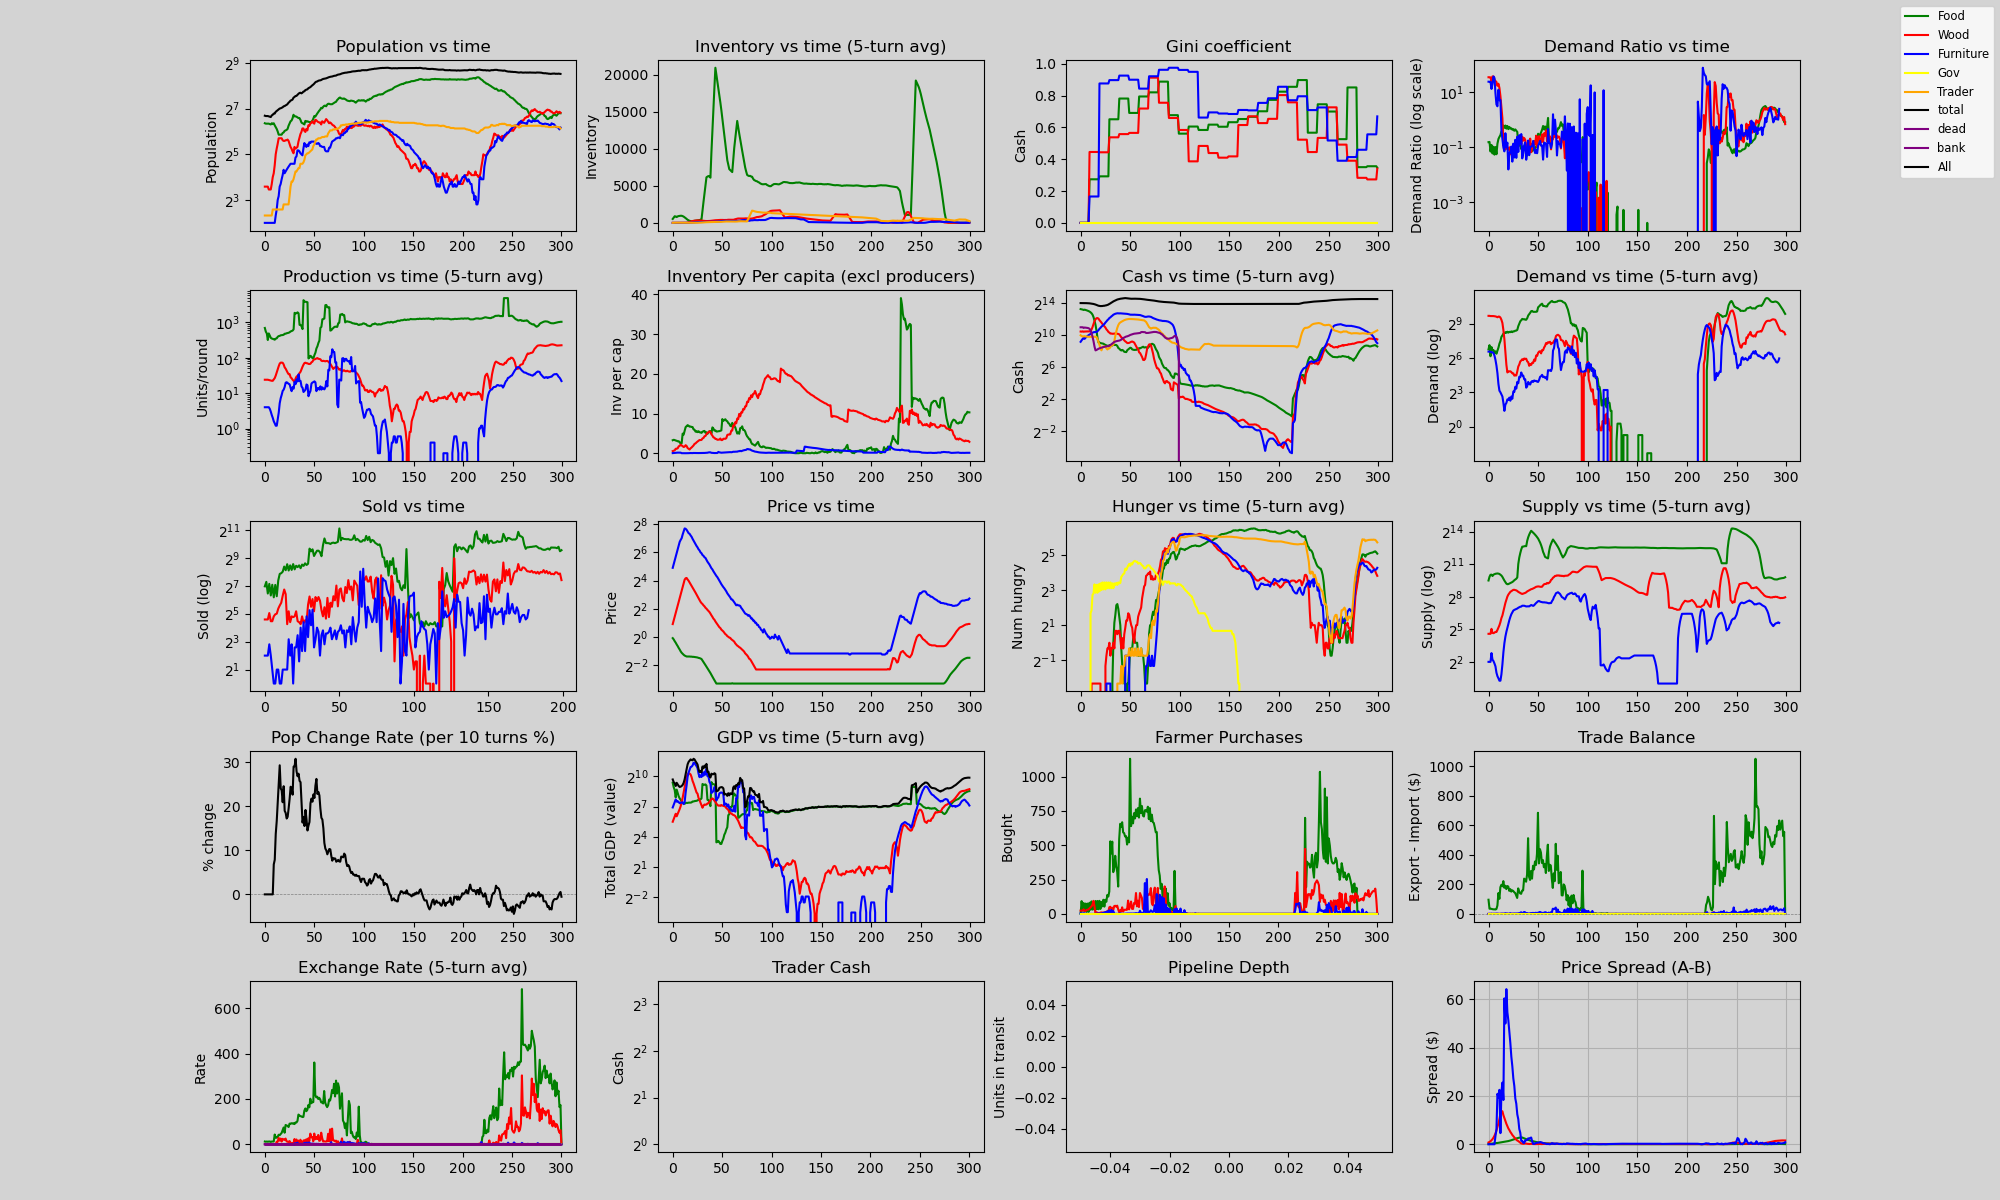
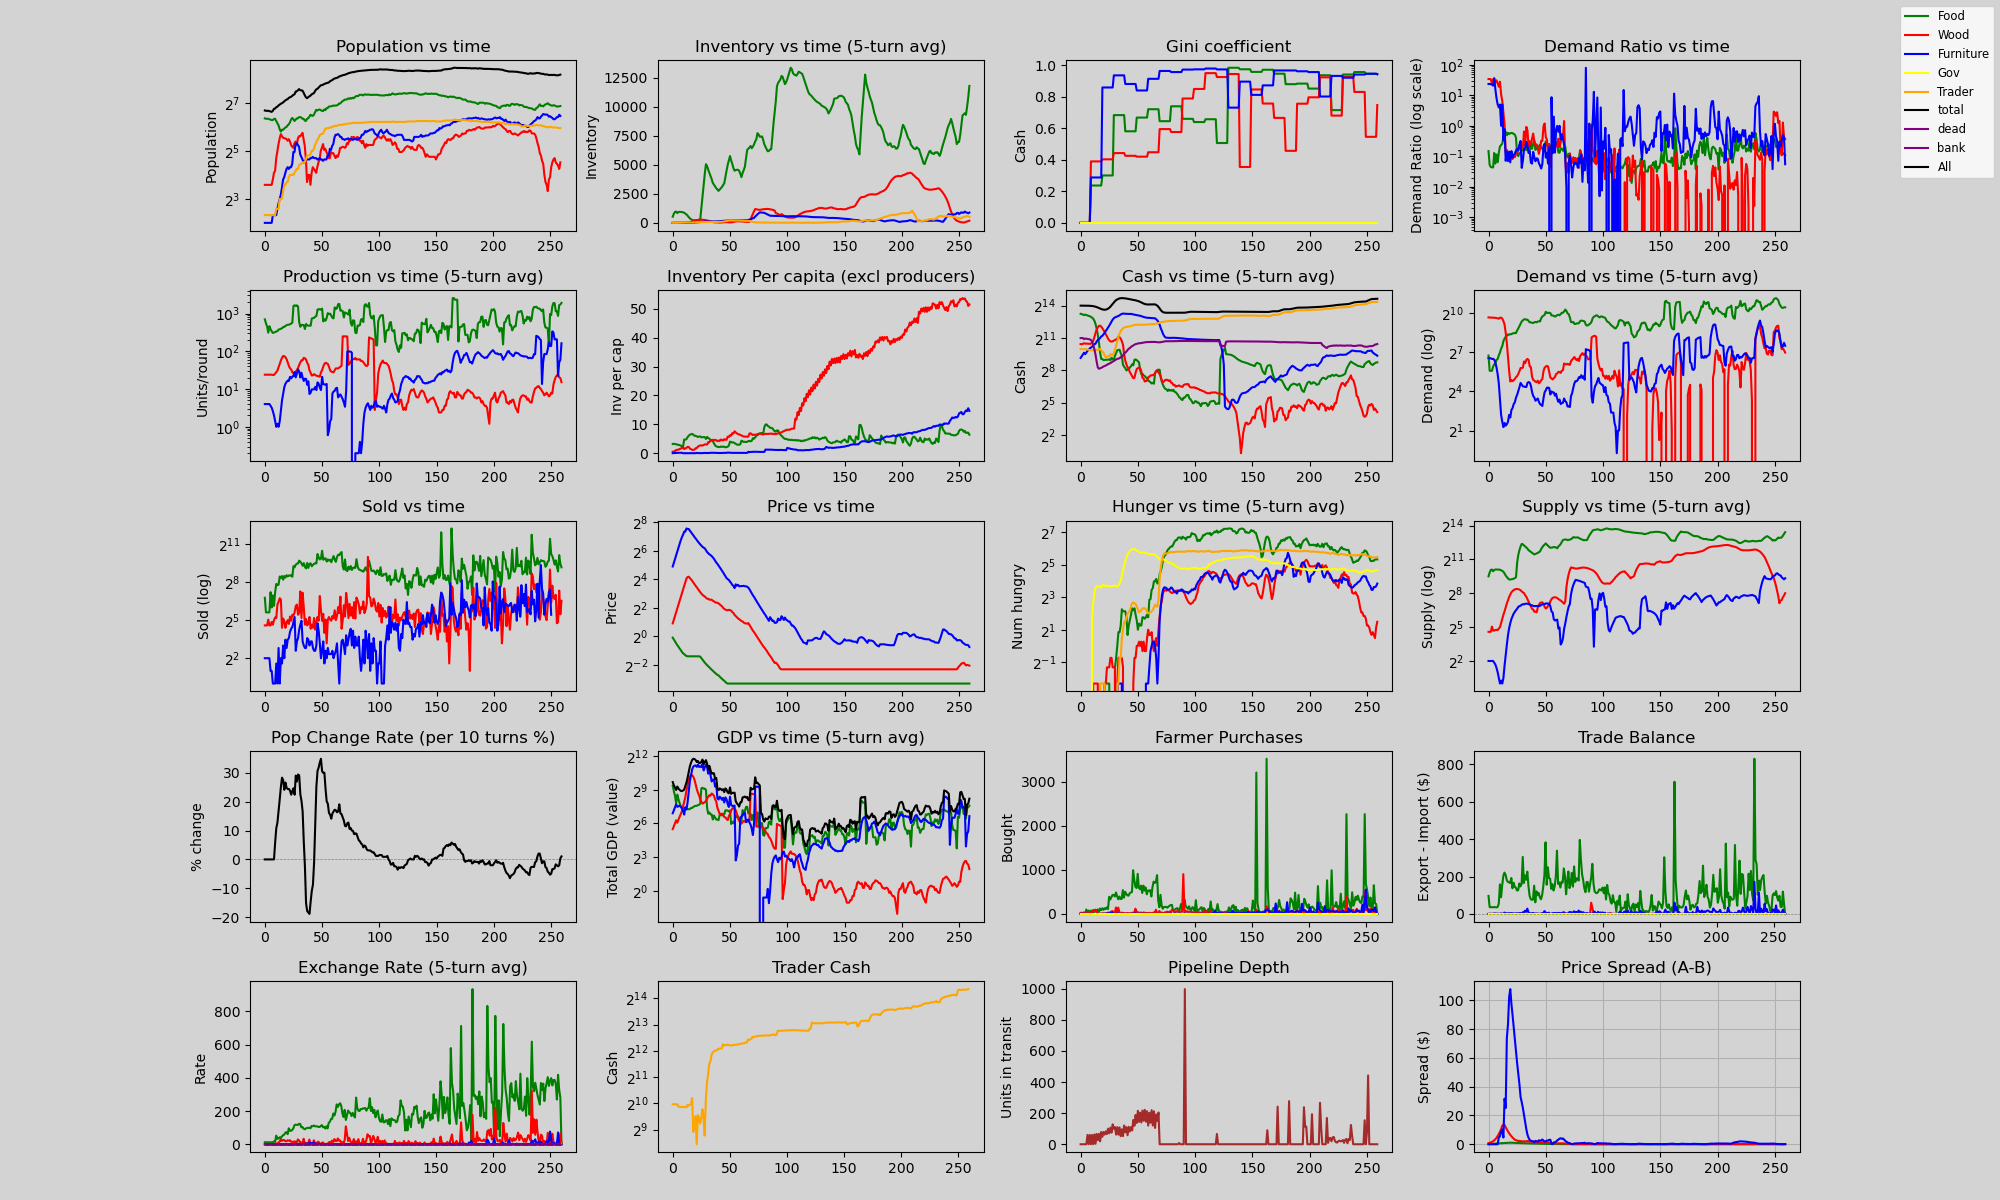
Add check_heirless.py diagnostic script for verifying heirless rate after wealth-based fertility/mortality changes

diff --git a/check_heirless.py b/check_heirless.py
@@ -1,0 +1,75 @@
+#!/usr/bin/env python3
+"""Diagnostic: check heirless rate for wealthy vs poor traders after wealth-based fertility and mortality changes."""
+import sys, random
+sys.path.insert(0, '.')
+from goods import Goods
+from region import Region
+from logger import logInit
+import econsim_two_region as sim
+import wealth_lineage as wl
+
+random.seed(42)
+logInit()
+
+region_a = Region('Region_A', 0, 110,
+                   {Goods.food: 0.753, Goods.wood: 0.110, Goods.furniture: 0.037})
+region_b = Region('Region_B', 0, 110,
+                   {Goods.food: 0.50, Goods.wood: 0.35, Goods.furniture: 0.05})
+region_a.recipes[Goods.food]['production'] *= 2
+region_b.recipes[Goods.wood]['production'] *= 2
+region_a.destination_region = region_b
+region_b.destination_region = region_a
+
+# Apply the same patches wealth_lineage.main() would use
+wl._patch_bank()
+wl._patch_lifecycle()
+
+# Run 300 turns with lineage instrumentation
+for t in range(1, 301):
+    region_a.step(t)
+    region_b.step(t)
+    sim.process_transport(t, region_a, region_b)
+    sim.foreign_sell(t, region_a, region_b)
+    sim.foreign_sell(t, region_b, region_a)
+    for a in region_a.agents + region_b.agents:
+        if hasattr(a, 'parent') and a.parent is not None:
+            wl.parent_map[a.id] = a.parent.id
+
+# Analyze inheritance events
+total_trader = 0
+heirless_count = 0
+has_heir_count = 0
+total_wealth_heirless = 0.0
+total_wealth_has_heir = 0.0
+
+for evt in wl.inheritance_events:
+    t, aid, prof, total_val, wealth, debt, heirs, to_gov = evt
+    if prof != 'Trader' or total_val <= 0:
+        continue
+    total_trader += 1
+    if to_gov:
+        heirless_count += 1
+        total_wealth_heirless += total_val
+    else:
+        has_heir_count += 1
+        total_wealth_has_heir += total_val
+
+print(f"Total trader deaths with wealth: {total_trader}")
+if total_trader > 0:
+    print(f"  → Gov (no heirs): {heirless_count} ({heirless_count/total_trader*100:.0f}%) total=${total_wealth_heirless:.0f}")
+    print(f"  → Heirs:           {has_heir_count} ({has_heir_count/total_trader*100:.0f}%) total=${total_wealth_has_heir:.0f}")
+
+# Also show summary for all professions
+print()
+for prof in ['Trader', 'Food', 'Wood', 'Furniture', 'Gov']:
+    n = hc = hwc = 0
+    for evt in wl.inheritance_events:
+        t, aid, p, tv, w, d, heirs, tg = evt
+        if p != prof:
+            continue
+        n += 1
+        if tg:
+            hc += 1
+            hwc += tv
+    pct = (hc / n * 100) if n else 0
+    print(f"  {prof:>12}: {n:>3} deaths, {hc:>3} gov ({pct:.0f}%)")
